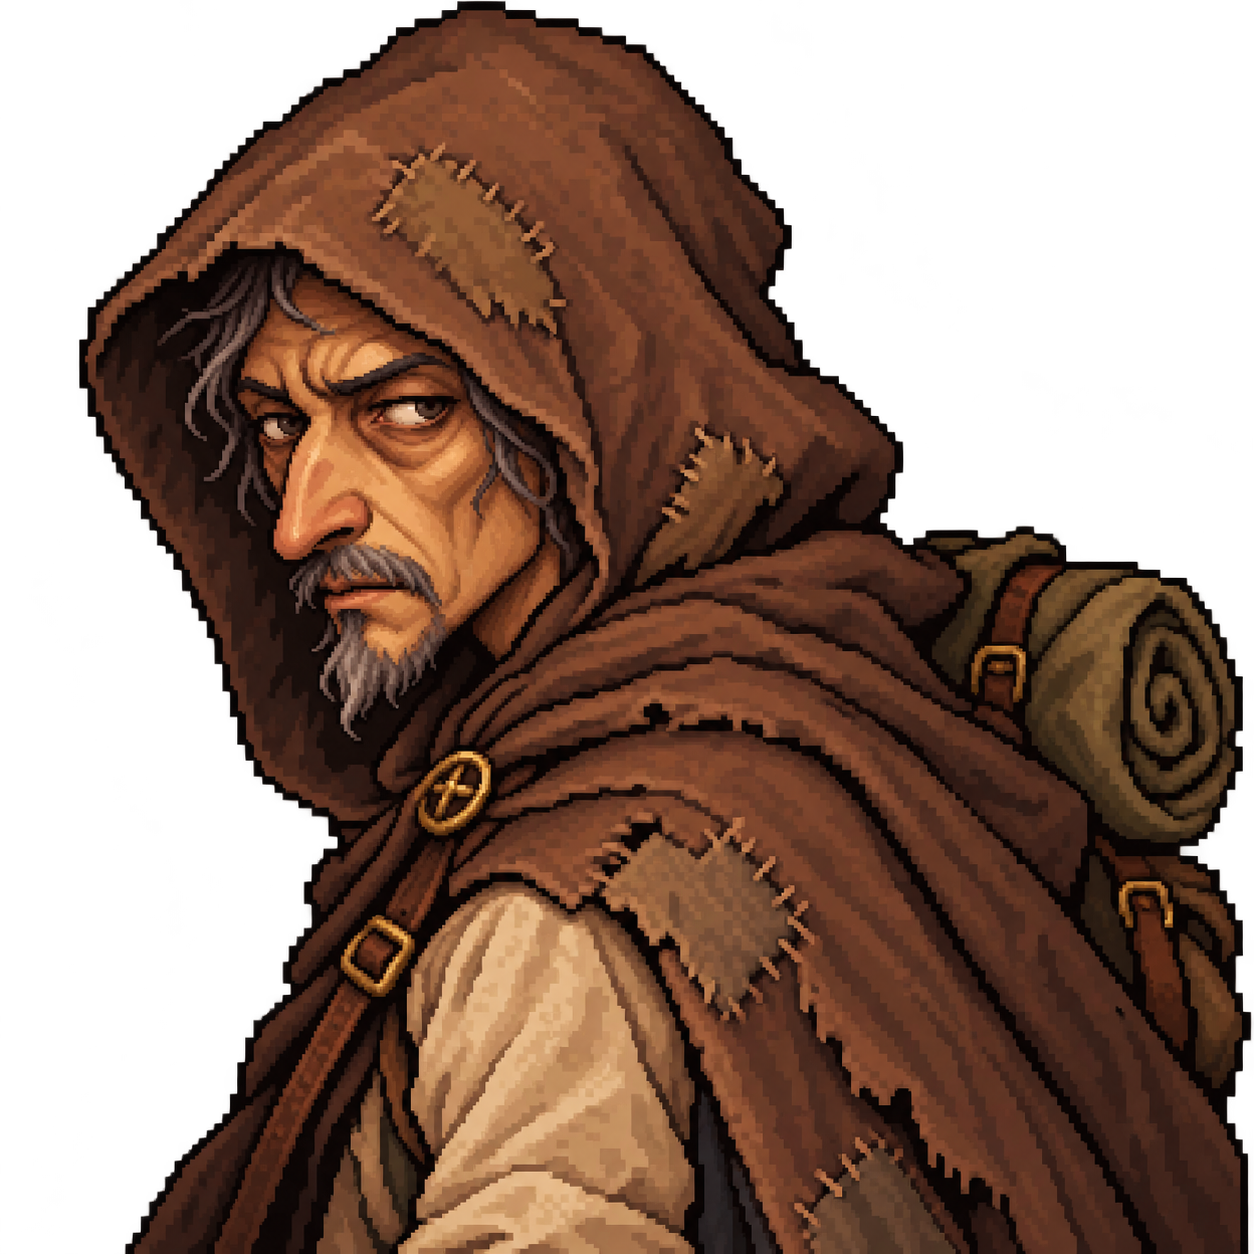
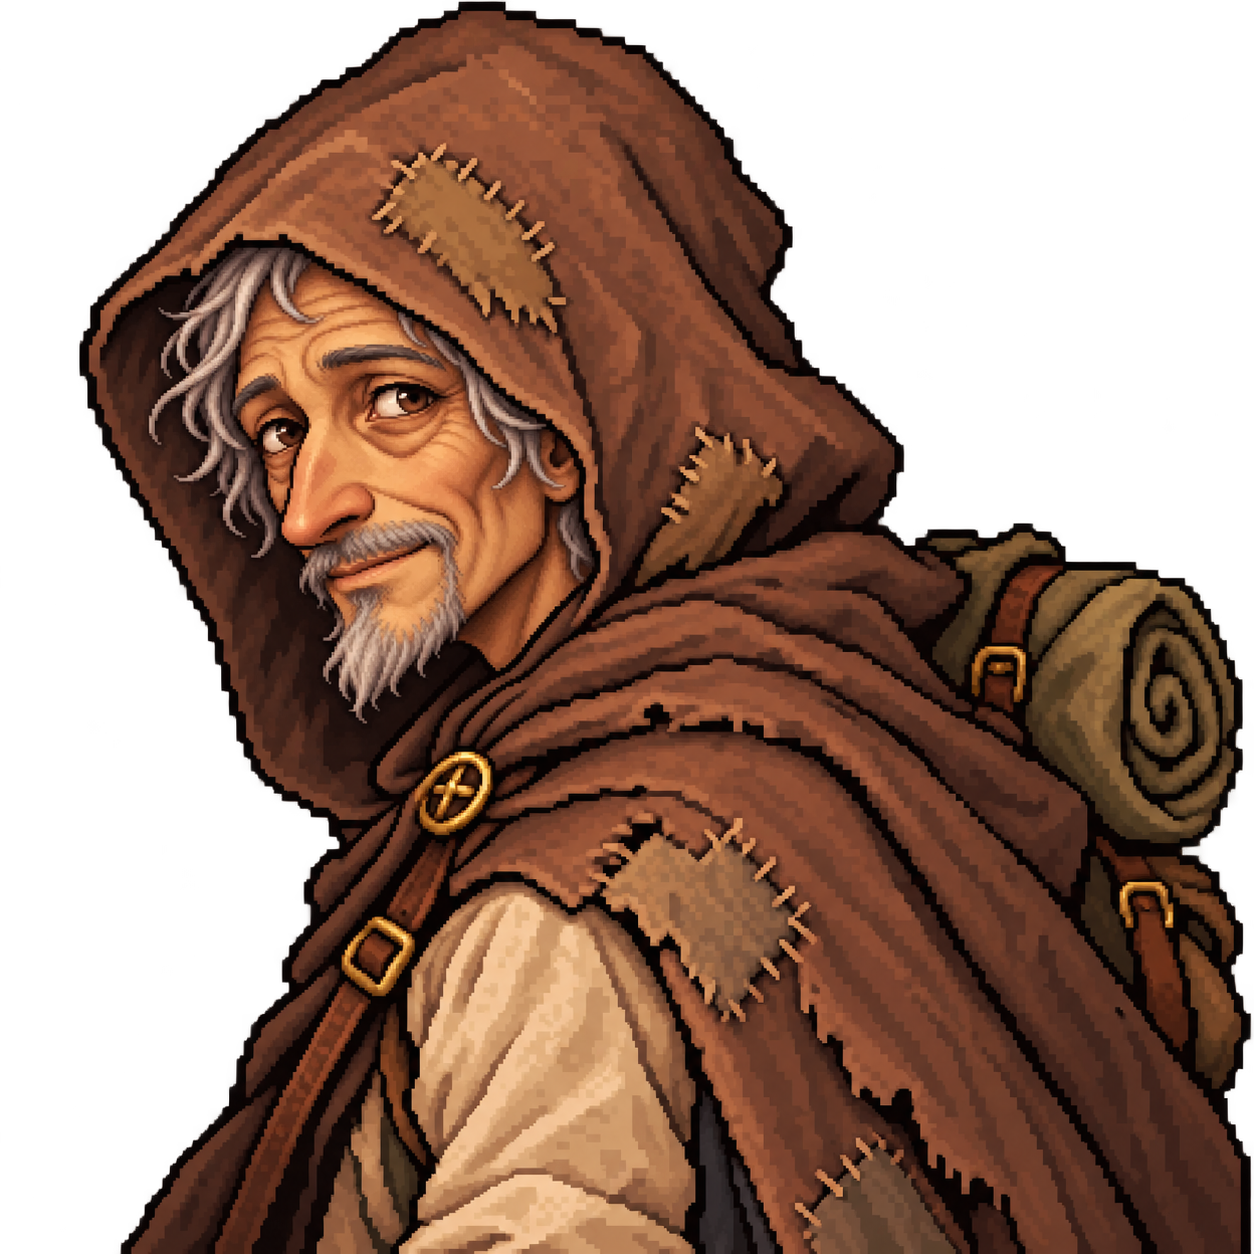
art: make the forest traveler gentle and hopeful

diff --git a/Docs/DIALOGUE_PORTRAITS.md b/Docs/DIALOGUE_PORTRAITS.md
@@ -10,7 +10,7 @@ Onze ilustrações originais em pixel art, com fisionomia, idade, expressão, si
 | Jardineiro | Idoso magro, rosto comprido e rugas marcadas; curvado sobre uma muda | `gardener.png` |
 | Exploradora | Rosto anguloso, pele bronzeada e sardas; queixo erguido, meio sorriso e mapa sob o braço | `explorer.png` |
 | Guardião da pedreira | Mandíbula larga, nariz achatado e barba curta; braços cruzados e olhar desconfiado | `quarry-keeper.png` |
-| Viajante | Homem mais velho e magro, rosto encovado; olha para trás por cima do ombro | `traveler.png` |
+| Viajante | Senhor magrinho e gentil, cabelos grisalhos, sorriso discreto e olhar esperançoso; capuz remendado e mochila | `traveler.png` |
 | Hospedeira | Rosto cheio, bochechas rosadas e coque; gargalhada acolhedora com a mão sobre o avental | `innkeeper.png` |
 | Tirano | Rei envelhecido de rosto ósseo e nariz adunco; olhar frontal severo e mão com anel junto ao rosto | `tyrant.png` |
 | Dragão corrompido | Cabeça frontal larga e baixa, olhar furioso e presas expostas | `dragon.png` |
@@ -26,6 +26,14 @@ Prompts completos, referências e hashes de cada original: [ArtInputs/DialoguePo
 
 `Tools > Dragon Quest > Validate Dialogue Portraits` confere os onze recursos, transparência, resolução nativa, importação, altura fixa e alinhamento inferior em três formatos de tela, além do avanço da escrita, escolhas e callbacks. As prévias são renderizadas em um projeto Unity isolado da sessão de jogo do usuário.
 
-![Coleção dos onze personagens, com fisionomias e poses próprias](DIALOGUE_PORTRAITS.preview.png)
+![Coleção original de 16 de outubro, anterior à revisão do viajante](DIALOGUE_PORTRAITS.preview.png)
 
-Validação concluída: scripts compilados com a Unity 6000.6.5f1; 169 verificações de páginas, escolhas, cancelamento e escrita; conferência nativa dos onze PNGs e de 17.297.676 pixels originais; 60 capturas do painel compacto em 1280 × 720, 960 × 720 e 540 × 960, incluindo escrita e rolagem de fala longa, fala curta e opções. A comparação visual confirmou a altura constante, o retrato transparente alinhado ao fundo e a separação da coluna de texto. A galeria dos retratos permanece válida: os PNGs dos personagens não foram alterados.
+Validação concluída: scripts compilados com a Unity 6000.6.5f1; 169 verificações de páginas, escolhas, cancelamento e escrita; conferência nativa dos onze PNGs e de 17.297.676 pixels originais; 60 capturas do painel compacto em 1280 × 720, 960 × 720 e 540 × 960, incluindo escrita e rolagem de fala longa, fala curta e opções. A comparação visual confirmou a altura constante, o retrato transparente alinhado ao fundo e a separação da coluna de texto. A galeria acima registra a coleção original de 16 de outubro, antes da revisão do viajante abaixo.
+
+## Viajante gentil — 17 de outubro de 2026
+
+O viajante da floresta passou a ser um senhor magrinho, gentil e esperançoso, com sorriso discreto, olhar acolhedor e cabelos e barba grisalhos. A edição com o `image_gen` integrado preserva o estilo em pixel art, a pose, o capuz marrom remendado, a mochila e a paleta do retrato anterior. O PNG gerado foi copiado integralmente em 1254 × 1254, com transparência real, sem alterar o GUID ou o importador. O prompt completo e o SHA-256 atualizado estão no manifesto de arte.
+
+Validação desta revisão: importação e carregamento do recurso confirmados na Unity 6000.6.5f1 em projeto isolado; resolução nativa de 1254 × 1254, GUID preservado, alpha real e Point/Clamp sem mipmaps, compressão ou redimensionamento. Os hashes e as configurações dos onze retratos também foram conferidos.
+
+![Retrato atualizado do viajante](../Assets/Resources/PixelArt/DialoguePortraits/traveler.png)

diff --git a/Docs/ASSETS.md b/Docs/ASSETS.md
@@ -118,6 +118,8 @@ Onze PNGs originais em `Assets/Resources/PixelArt/DialoguePortraits`, gerados se
 
 Os arquivos gerados são copiados integralmente, mantendo RGBA e transparência. Importação Point/Clamp, sem mipmap, compressão, redução ou cópia legível em CPU. `DialoguePortraitCatalog` faz a associação de personagens e `DialoguePresentation` desenha os PNGs inteiros. Prompts completos, referências e SHA-256 de cada original em `Docs/ArtInputs/DialoguePortraits/prompts.json`; documentação em `Docs/DIALOGUE_PORTRAITS.md`.
 
+Em 17 de outubro de 2026, `traveler.png` foi editado com o `image_gen` integrado para apresentar um senhor magrinho, gentil e esperançoso. Mantém o traje, a pose, a paleta e o estilo em pixel art. O original gerado de 1254 × 1254 foi copiado integralmente com alpha transparente, mantendo o GUID e o importador; prompt de edição e SHA-256 atualizados no manifesto de retratos.
+
 ## Final de possessão — 16 de outubro de 2026
 
[1 lines of base64/hex data omitted]
